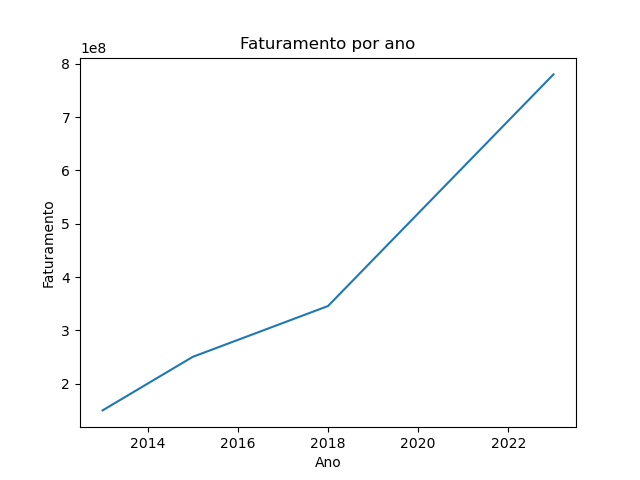
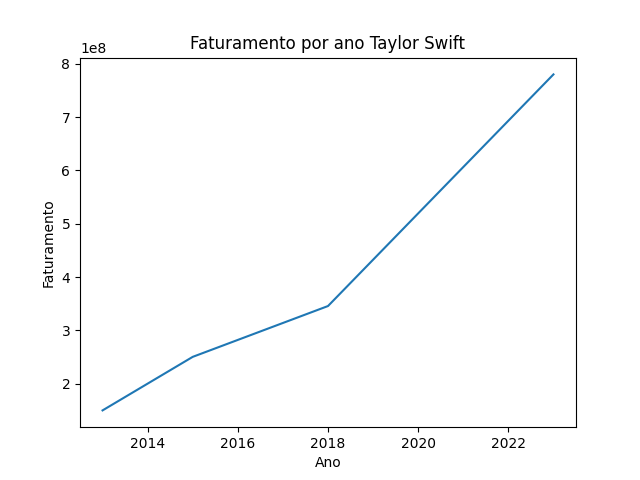
:sparkles: feat: Sprint 3 corrigida

diff --git a/Sprint 3/Desafio/etapa2/job.py b/Sprint 3/Desafio/etapa2/job.py
@@ -64,7 +64,7 @@ artista = resultado["Artist"]
 resultadoEx4 = dataFrame[dataFrame["Artist"] == artista][["Actual gross","Start year","Tour title"]]
 
 plt.plot(resultadoEx4["Start year"],resultadoEx4["Actual gross"])
-plt.title("Faturamento por ano")
+plt.title("Faturamento por ano "+ artista)
 plt.xlabel("Ano")
 plt.ylabel("Faturamento")
 plt.savefig("../volume/Q4.png") 
